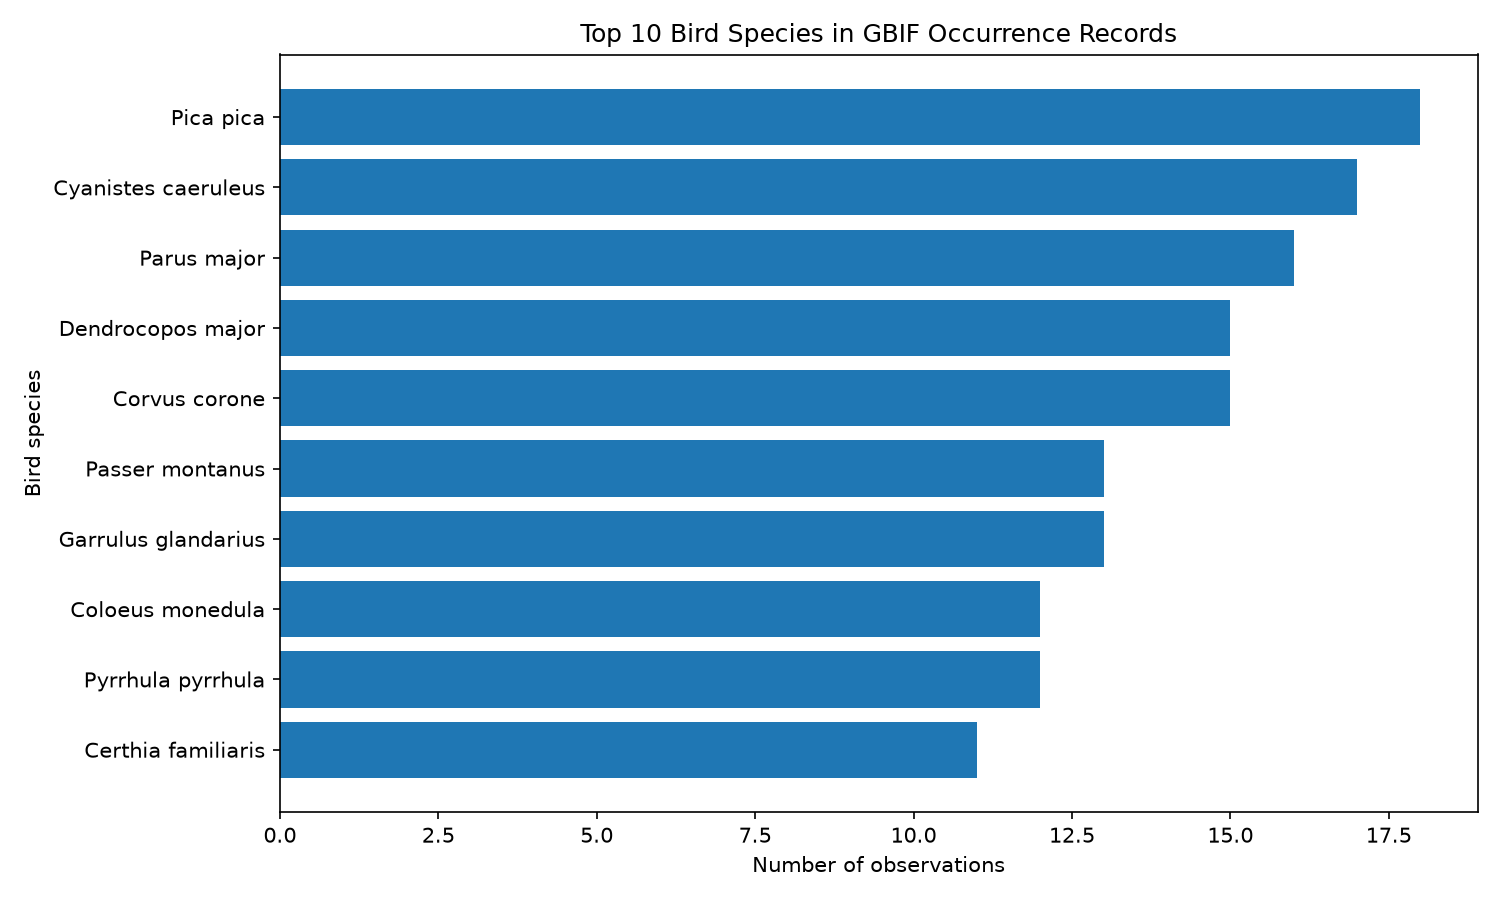
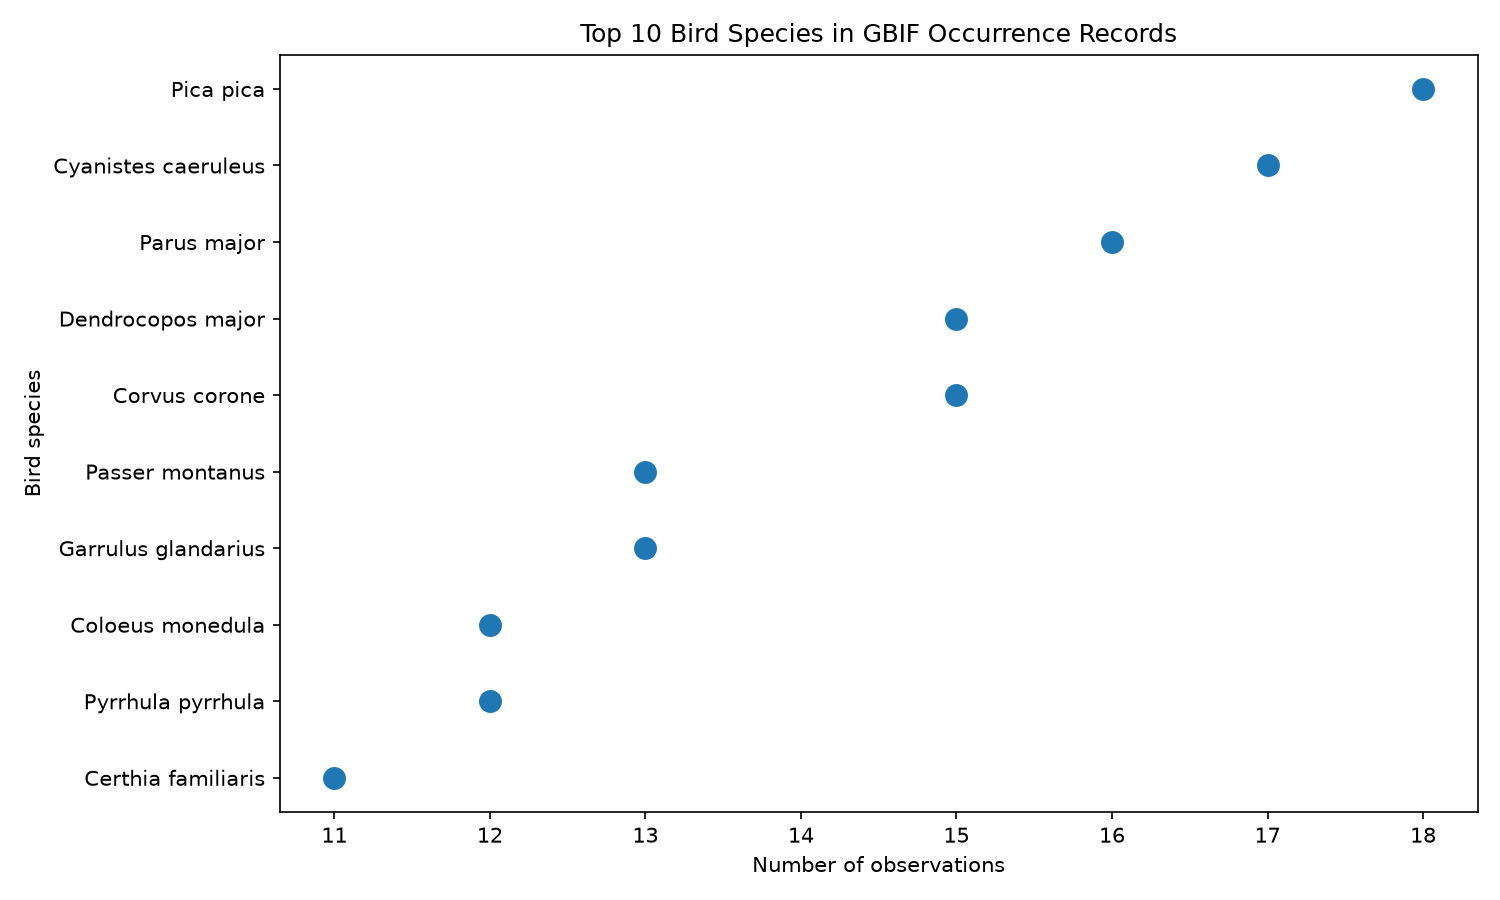
update bird species ripple visualization

diff --git a/plot.py b/plot.py
@@ -3,23 +3,14 @@
 # dependencies = ["matplotlib"]
 # ///
 
-"""
-Read the GBIF bird observation data, make one picture, and save it to out/.
-
-    uv run plot.py
-
-The data contains bird occurrence records from GBIF.
-This script counts how many records belong to each bird species
-and plots the 10 most frequently recorded species.
-"""
-
 import json
+import math
 from pathlib import Path
 
 import matplotlib.pyplot as plt
 
+
 FILE = "gbif-bird-observations.json"
-PICTURE = "plot.png"
 
 HERE = Path(__file__).parent
 DATA = HERE / "data" / FILE
@@ -27,22 +18,17 @@ OUT = HERE / "out"
 
 
 def rows(path):
-    """Read the GBIF JSON file and return the occurrence records."""
-    with path.open(encoding="utf-8") as handle:
-        data = json.load(handle)
+    with path.open(encoding="utf-8") as f:
+        data = json.load(f)
+
     return data["results"]
 
 
+
 def main():
+
     table = rows(DATA)
 
-    # Print the first row, one value, and its type before plotting.
-    print(f"{DATA.name}: {len(table)} rows.")
-    print("The first row:", table[0])
-    print("One value:", table[0].get("species"))
-    print("Type:", type(table[0].get("species")))
-
-    # Count observations for each bird species.
     counts = {}
 
     for row in table:
@@ -51,36 +37,118 @@ def main():
         if species:
             counts[species] = counts.get(species, 0) + 1
 
+
     top_species = sorted(
         counts.items(),
-        key=lambda item: item[1],
+        key=lambda x:x[1],
         reverse=True
     )[:10]
 
-    names = [item[0] for item in top_species]
-    values = [item[1] for item in top_species]
 
-    print(f"{len(counts)} different species found.")
-    print("Top 10 species:", top_species)
+    print(top_species)
 
-    # Make the picture.
-    fig, ax = plt.subplots(figsize=(10, 6))
 
-    ax.barh(names[::-1], values[::-1])
+    fig, ax = plt.subplots(
+        figsize=(10,10)
+    )
 
-    ax.set_xlabel("Number of observations")
-    ax.set_ylabel("Bird species")
-    ax.set_title("Top 10 Bird Species in GBIF Occurrence Records")
 
-    fig.tight_layout()
+    # background
+    ax.set_facecolor("#faf8f2")
+
+
+    max_value = top_species[0][1]
+
+
+    for index,(name,value) in enumerate(top_species):
+
+        angle = index * (360/len(top_species))
+
+        x = math.cos(math.radians(angle))*2
+        y = math.sin(math.radians(angle))*2
+
+
+        # ring size controlled by observation number
+        radius = 0.25 + value/max_value*0.5
+
+
+        # multiple ripple circles
+        for i in range(5):
+
+            r = radius*(i+1)/5
+
+
+            circle = plt.Circle(
+                (x,y),
+                r,
+                fill=False,
+                linewidth=1.2,
+                alpha=0.6
+            )
+
+            ax.add_patch(circle)
+
+
+
+        # bird name inside ring
+
+        ax.text(
+            x,
+            y,
+            name.replace(" ","\n"),
+            ha="center",
+            va="center",
+            fontsize=8
+        )
+
+
+        # number below
+
+        ax.text(
+            x,
+            y-radius-0.15,
+            f"{value} records",
+            ha="center",
+            fontsize=7
+        )
+
+
+    # center title
+
+    ax.text(
+        0,
+        0,
+        "GBIF\nBird\nObservations",
+        ha="center",
+        va="center",
+        fontsize=12
+    )
+
+
+    ax.set_xlim(-3,3)
+    ax.set_ylim(-3,3)
+
+    ax.axis("off")
+
+
+    plt.title(
+        "Bird Species Ripple Map\n300 GBIF Occurrence Records",
+        fontsize=16
+    )
+
 
     OUT.mkdir(exist_ok=True)
-    fig.savefig(OUT / PICTURE, dpi=150)
 
-    print(f"saved out/{PICTURE}")
+    plt.savefig(
+        OUT/"plot.png",
+        dpi=150,
+        bbox_inches="tight"
+    )
+
 
     plt.show()
 
 
-if __name__ == "__main__":
+
+if __name__=="__main__":
     main()

diff --git a/ripple.py b/ripple.py
@@ -1,0 +1,170 @@
+import json
+import math
+import os
+import numpy as np
+import matplotlib.pyplot as plt
+
+
+INPUT = "data/gbif-bird-observations.json"
+OUTPUT = "out/ripple.png"
+
+
+def load_species():
+
+    species_count = {}
+
+    with open(INPUT, encoding="utf-8") as f:
+        data = json.load(f)
+
+    for row in data["results"]:
+
+        name = (
+            row.get("species")
+            or row.get("scientificName")
+            or row.get("genus")
+            or "Unknown"
+        )
+
+        species_count[name] = (
+            species_count.get(name, 0) + 1
+        )
+
+
+    top_species = sorted(
+        species_count.items(),
+        key=lambda x: x[1],
+        reverse=True
+    )[:10]
+
+
+    return top_species
+
+
+
+def draw_ripple(species):
+
+    fig, ax = plt.subplots(
+        figsize=(8, 8)
+    )
+
+
+    ax.set_aspect("equal")
+    ax.axis("off")
+
+
+    fig.patch.set_facecolor("#faf8f3")
+    ax.set_facecolor("#faf8f3")
+
+
+    colors = plt.cm.rainbow(
+        np.linspace(
+            0,
+            1,
+            len(species)
+        )
+    )
+
+
+    max_value = max(
+        value for _, value in species
+    )
+
+
+    for i, ((name, count), color) in enumerate(
+        zip(species, colors)
+    ):
+
+
+        radius = 0.8 + i * 0.35
+
+
+        theta = np.linspace(
+            0,
+            math.pi * 2,
+            400
+        )
+
+
+        strength = count / max_value
+
+
+        distortion = (
+            np.sin(theta * (i + 3))
+            * 0.05
+            * strength
+        )
+
+
+        r = radius + distortion
+
+
+        x = r * np.cos(theta)
+        y = r * np.sin(theta)
+
+
+        ax.plot(
+            x,
+            y,
+            color=color,
+            linewidth=2,
+            alpha=0.85
+        )
+
+
+        ax.text(
+            0,
+            radius + 0.08,
+            name[:20],
+            fontsize=8,
+            ha="center",
+            color="#333333"
+        )
+
+
+    ax.scatter(
+        0,
+        0,
+        s=50,
+        color="#222222"
+    )
+
+
+    ax.set_title(
+        "Bird Species Ripple",
+        fontsize=18,
+        pad=25
+    )
+
+
+    os.makedirs(
+        "out",
+        exist_ok=True
+    )
+
+
+    plt.savefig(
+        OUTPUT,
+        dpi=300,
+        bbox_inches="tight"
+    )
+
+
+    plt.close()
+
+
+
+def main():
+
+    species = load_species()
+
+    draw_ripple(species)
+
+    print(
+        "Saved:",
+        OUTPUT
+    )
+
+
+
+if __name__ == "__main__":
+    main()
